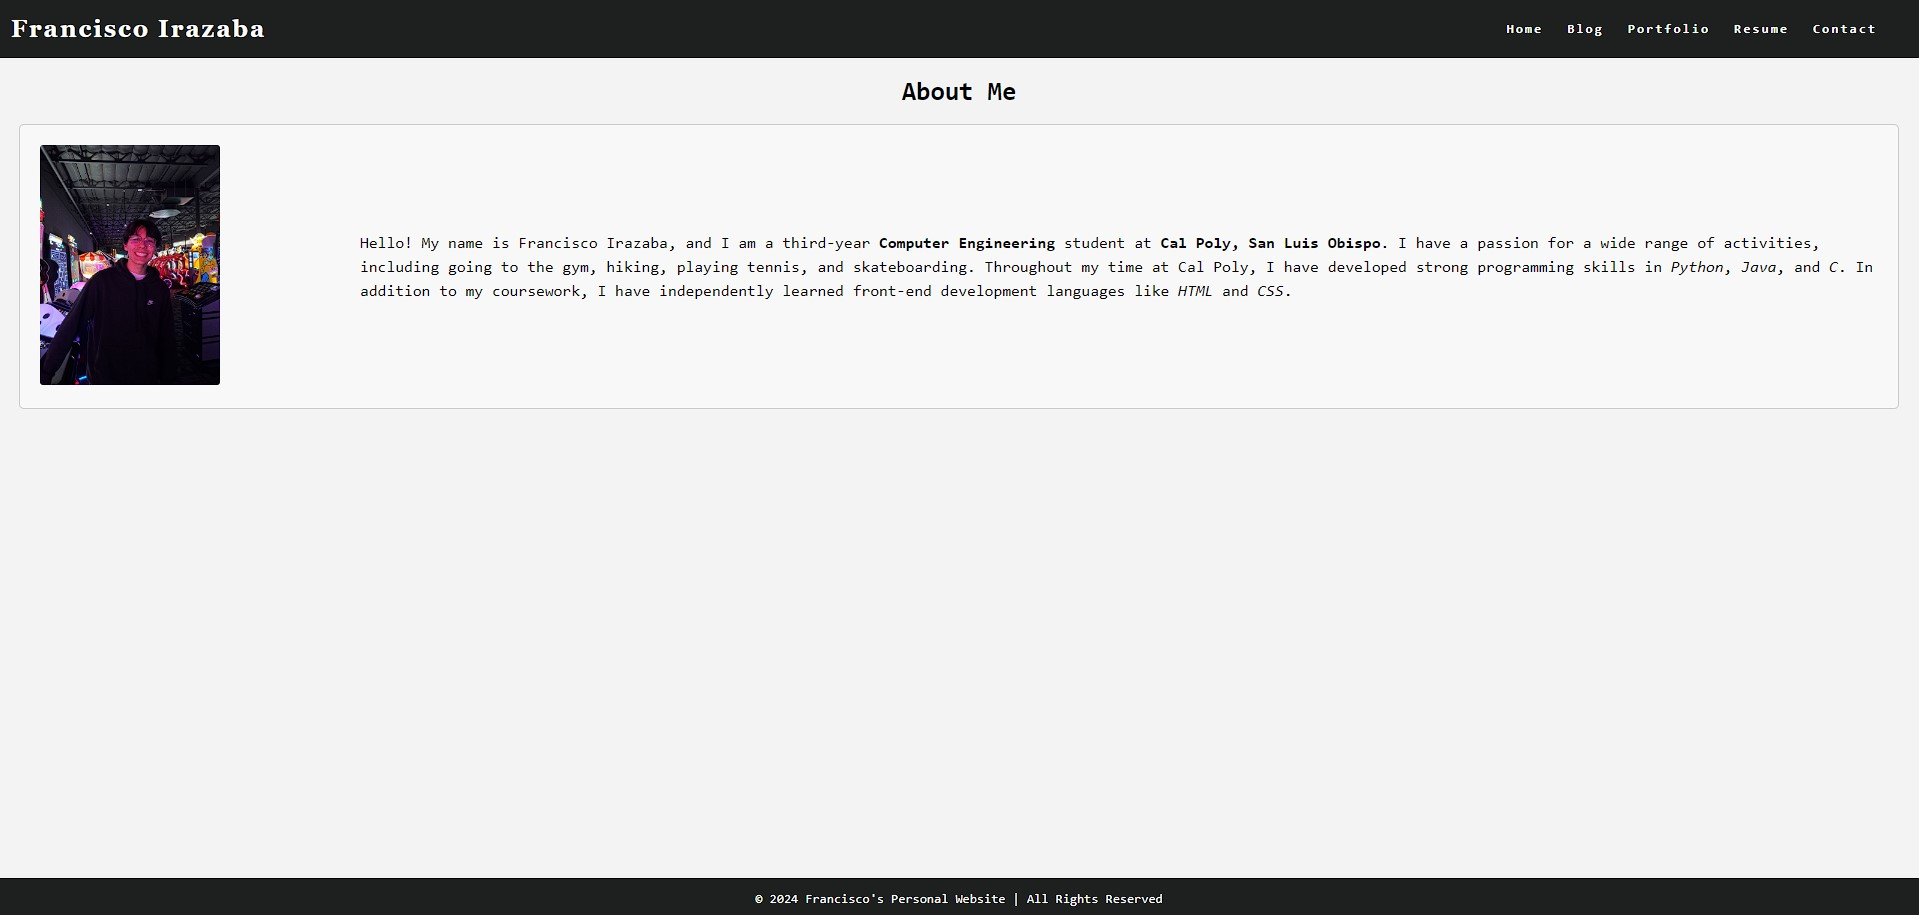
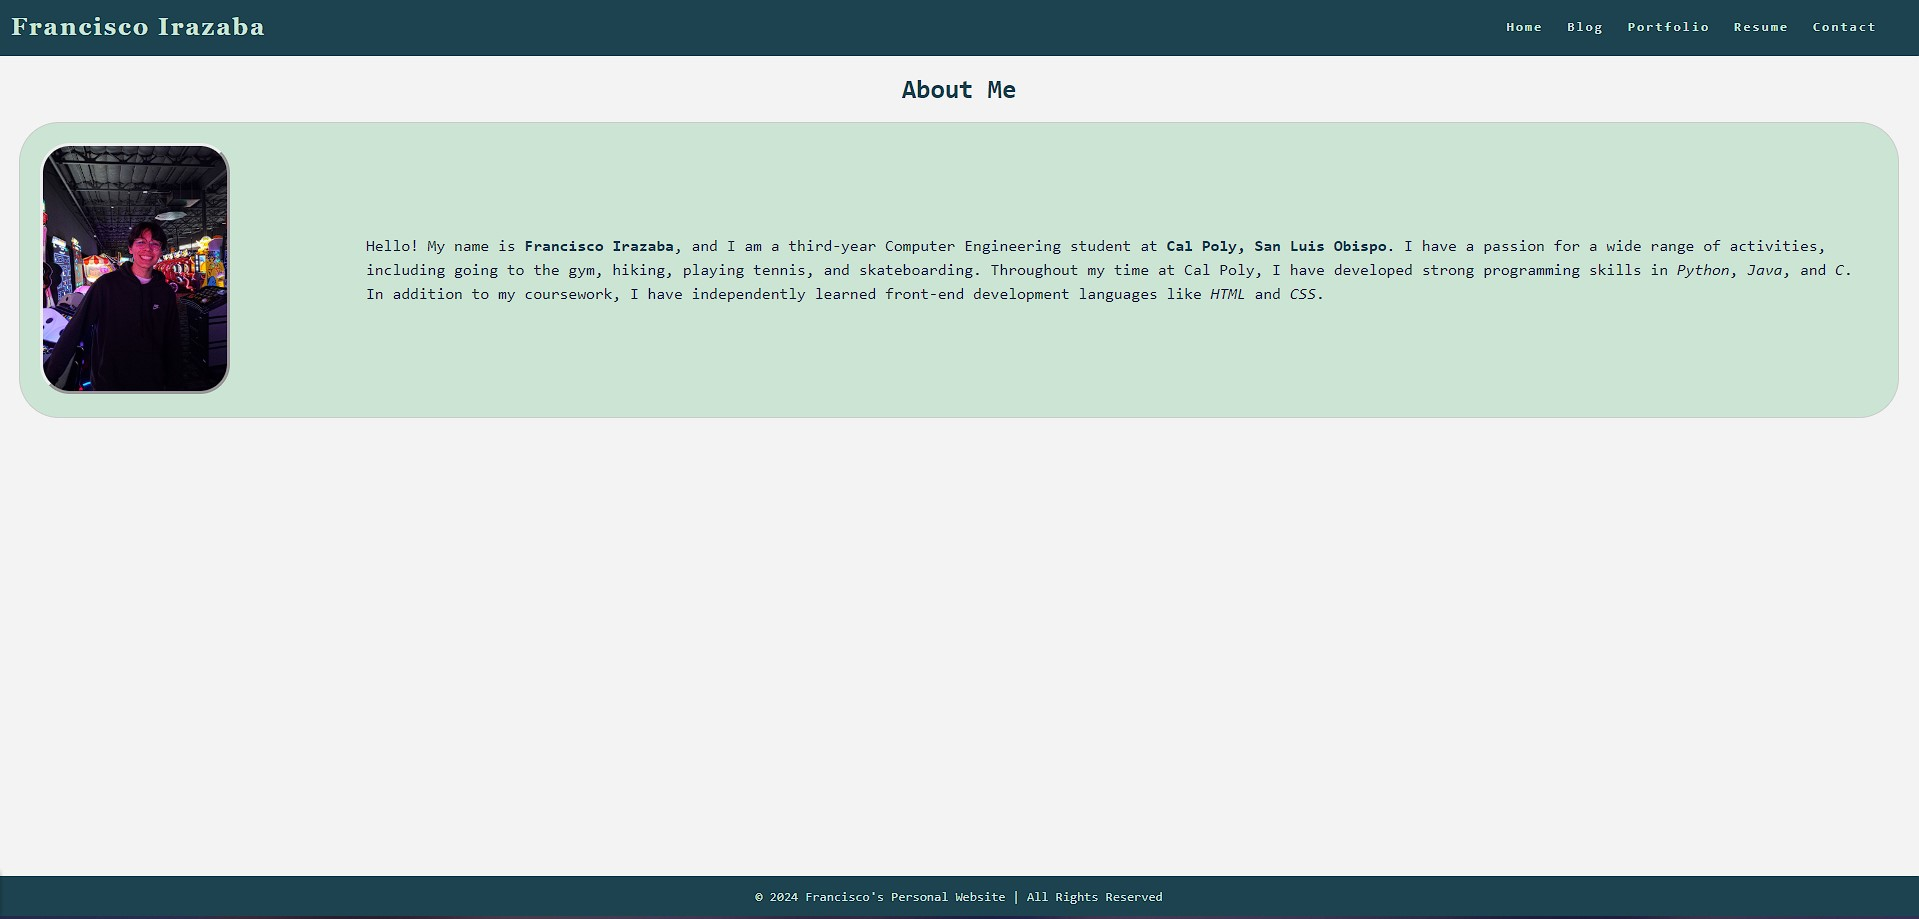
feat:change colors of background and text

diff --git a/styles.css b/styles.css
@@ -4,6 +4,9 @@
     --cg-blue: rgb(36, 94, 255);
     --cg-grey: rgb(243, 243, 243);
     --cg-white: rgb(255, 255, 255);
+    --cg-indigo: 	rgb(29, 66, 80);
+    --cg-light-silver: rgb(204, 228, 211);
+    --cg-silver-lake-blue: rgb(85, 136, 198);
   }
   
   html {
@@ -34,7 +37,7 @@
     align-items: center;
     text-align: center;
   
-    background-color: var(--cg-black);
+    background-color: var(--cg-indigo);
     color: var(--cg-white);
     padding: 0px 0px;
   
@@ -54,7 +57,7 @@
   }
   
   .navbar a {
-    color: var(--cg-white);
+    color: var(--cg-light-silver);
     font-weight: bold;
     margin: 0 12px;
     text-decoration: none;
@@ -64,12 +67,12 @@
   }
   
   .navbar a:hover {
-    color: var(--cg-blue);
+    color: var(--cg-silver-lake-blue);
     text-decoration: underline;
   }
   
   .navbar a:active {
-    color: var(--cg-blue);
+    color: var(--cg-silver-lake-blue);
   }
   
   .logo a {
@@ -81,7 +84,7 @@
   }
   
   main {
-    padding: 0 20px 40px 20px;
+    padding: 0 200px 40px 200px;
     display: flex;
     flex-direction: column;
     justify-content: center;
@@ -89,10 +92,17 @@
   }
   
   .page-title {
+    color: var(--cg-indigo);
     display: flex;
     justify-content: center;
     font-size: 40px;
     font-family: Georgia;
+  }
+
+  .section-title, .entry-title, 
+  .entry-info, .entry-description, 
+  .skill-list, .skill-title {
+    color: var(--cg-indigo);
   }
   
   /* CSS for portfolio grid */
@@ -109,7 +119,7 @@
   
   .item-link {
     width: 70%;
-  
+
     /* Debug border */
     /* border: 2px solid red; */
   }
@@ -117,7 +127,7 @@
   .project-image {
     object-fit: cover;
     width: 100%;
-    height: 500px;
+    height: 400px;
     flex-basis: 50px;
     flex-grow: 2;
   
@@ -127,9 +137,9 @@
   
   .project-details {
     display: flex;
-    background-color: var(--cg-white);
+    background-color: var(--cg-light-silver);
     width: 30%;
-    height: 500px;
+    height: 400px;
     flex-shrink: 1;
     padding: 0 20px;
     margin: 0px;
@@ -144,8 +154,11 @@
     /* border: 2px solid green; */
   }
   
+  .project-description{
+    color: var(--cg-indigo);
+  }
   .project-details a {
-    color: var(--cg-black);
+    color: var(--cg-indigo);
     text-decoration: none;
     font-weight: bold;
     letter-spacing: 1px;
@@ -161,9 +174,12 @@
   }
   
   .project-name {
+    color: var(--cg-indigo);
     font-weight: bold;
     font-size: 20px;
   }
+
+
   
   /* CSS for home page */
   
@@ -172,29 +188,36 @@
     align-items: center;
     justify-content: space-between;
     padding: 20px;
-    background-color: #f8f8f8;
+    background-color: var(--cg-light-silver);
     border: 1px solid #ccc;
-    border-radius: 5px;
-    /* box-shadow: 0 0 10px rgba(0, 0, 0, 0.1); */
+    border-radius: 40px;
+    box-shadow: 0 0 100px rgba(0, 0, 0, 0.1); 
   }
   
   .about-image img {
     max-width: 300px;
-    border-radius: 3px;
+    border-radius: 30px;
+    border: outset;
+    
     /* box-shadow: 0 0 10px rgba(0, 0, 0, 0.2); */
   }
-  
+  .about-heading{
+    color: var(--cg-indigo);
+  }
   .about-text {
+    color: var(--cg-indigo);
     flex: 1;
     margin-left: 20px;
   }
   
   .about-text h2 {
+    color: var(--cg-indigo);
     font-size: 24px;
     margin-bottom: 10px;
   }
   
   .about-text p {
+    color: var(--cg-silver-indigo);
     font-size: 16px;
     line-height: 1.5;
   }
@@ -202,9 +225,9 @@
   /* CSS for resume page */
   
   .button {
-    background-color: var(--cg-black);
+    background-color: var(--cg-indigo);
     border: none;
-    color: var(--cg-white);
+    color: var(--cg-light-silver);
   
     font-family: monospace;
   
@@ -215,7 +238,7 @@
   }
   
   .button:hover {
-    background-color: var(--cg-blue);
+    background-color: var(--cg-silver-lake-blue);
   }
   
   .resume h2 {
@@ -225,6 +248,7 @@
   /* CSS for contact form */
   
   label {
+    color: var(--cg-indigo);
     display: block;
     margin-bottom: 8px;
     font-family: Georgia;
@@ -255,8 +279,8 @@
     display: flex;
     justify-content: center;
     align-items: center;
-    background-color: var(--cg-black);
-    color: var(--cg-white);
+    background-color: var(--cg-indigo);
+    color: var(--cg-light-silver);
     position: absolute;
     bottom: 0;
     width: 100%;

diff --git a/styles2.css b/styles2.css
@@ -1,0 +1,72 @@
+html {
+  height: 100%;
+}
+
+body {
+  background-color: white;
+  position: relative;
+  min-height: 100vh;
+  padding: 0;
+  margin: 0;
+}
+
+main {
+  padding: 0 20px 40px 20px;
+  display: flex;
+  flex-direction: column;
+  justify-content: center;
+  align-items: center;
+}
+
+/* CSS for navigation bar */
+
+.navbar {
+  position: -webkit-sticky;
+  position: sticky;
+  top: 0;
+  width: 100%;
+  height: 7%;
+  z-index: 10;
+
+  display: flex;
+  justify-content: space-between;
+  align-items: center;
+  text-align: center;
+
+  background-color: black;
+  color: white;
+  padding: 0px 0px;
+
+  /* Debug border */
+  /* border: solid red; */
+}
+
+.nav-list {
+  display: flex;
+  flex-direction: row;
+  position: relative;
+  right: 30px;
+  list-style: none;
+}
+
+.navbar a {
+  color: white;
+  font-weight: bold;
+  margin: 0 12px;
+  text-decoration: none;
+  letter-spacing: 2px;
+}
+
+/* CSS for page footer */
+
+.footer {
+  display: flex;
+  justify-content: center;
+  align-items: center;
+  background-color: black;
+  color: white;
+  position: absolute;
+  bottom: 0;
+  width: 100%;
+  height: 2.5rem;
+}

diff --git a/portfolio.html b/portfolio.html
@@ -19,7 +19,7 @@
             <h1 class="page-title">Portfolio</h1>
             <div class = "project">
                 <a href = "index.html" >
-                    <img class = "project-image" src = "Images/Website-img.jpg" alt = "Image of personal website" width = "50%">
+                    <img class = "project-image" src = "Images/Website-img.jpg" alt = "Image of personal website">
                 </a>    
                 <div class = "project-details">
                     <p class = "project-name" ><strong>Personal Website</strong></p>

diff --git a/index.html b/index.html
@@ -16,7 +16,7 @@
               </ul>
         </nav>
         <main>
-            <h1>About Me</h1>
+            <h1 class = "about-heading">About Me</h1>
             <div class = "about">
                 <div class = "about-image">
                     <img src="Images/Self-pic-1.jpeg" alt="Image of Francisco Irazaba in front of an arcade" width = "60%">
